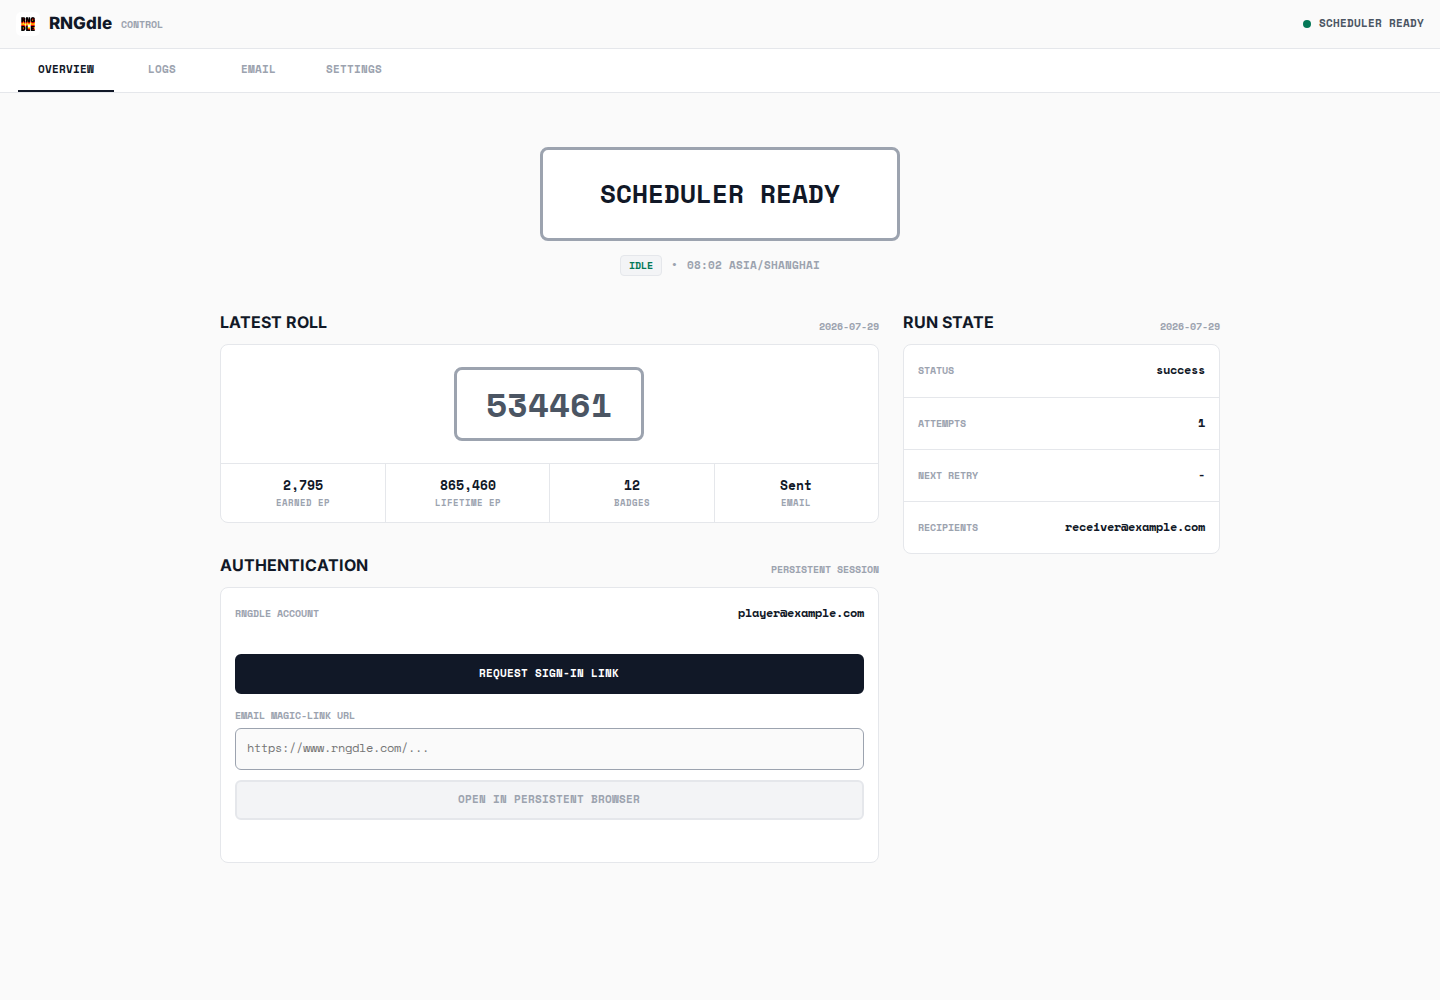
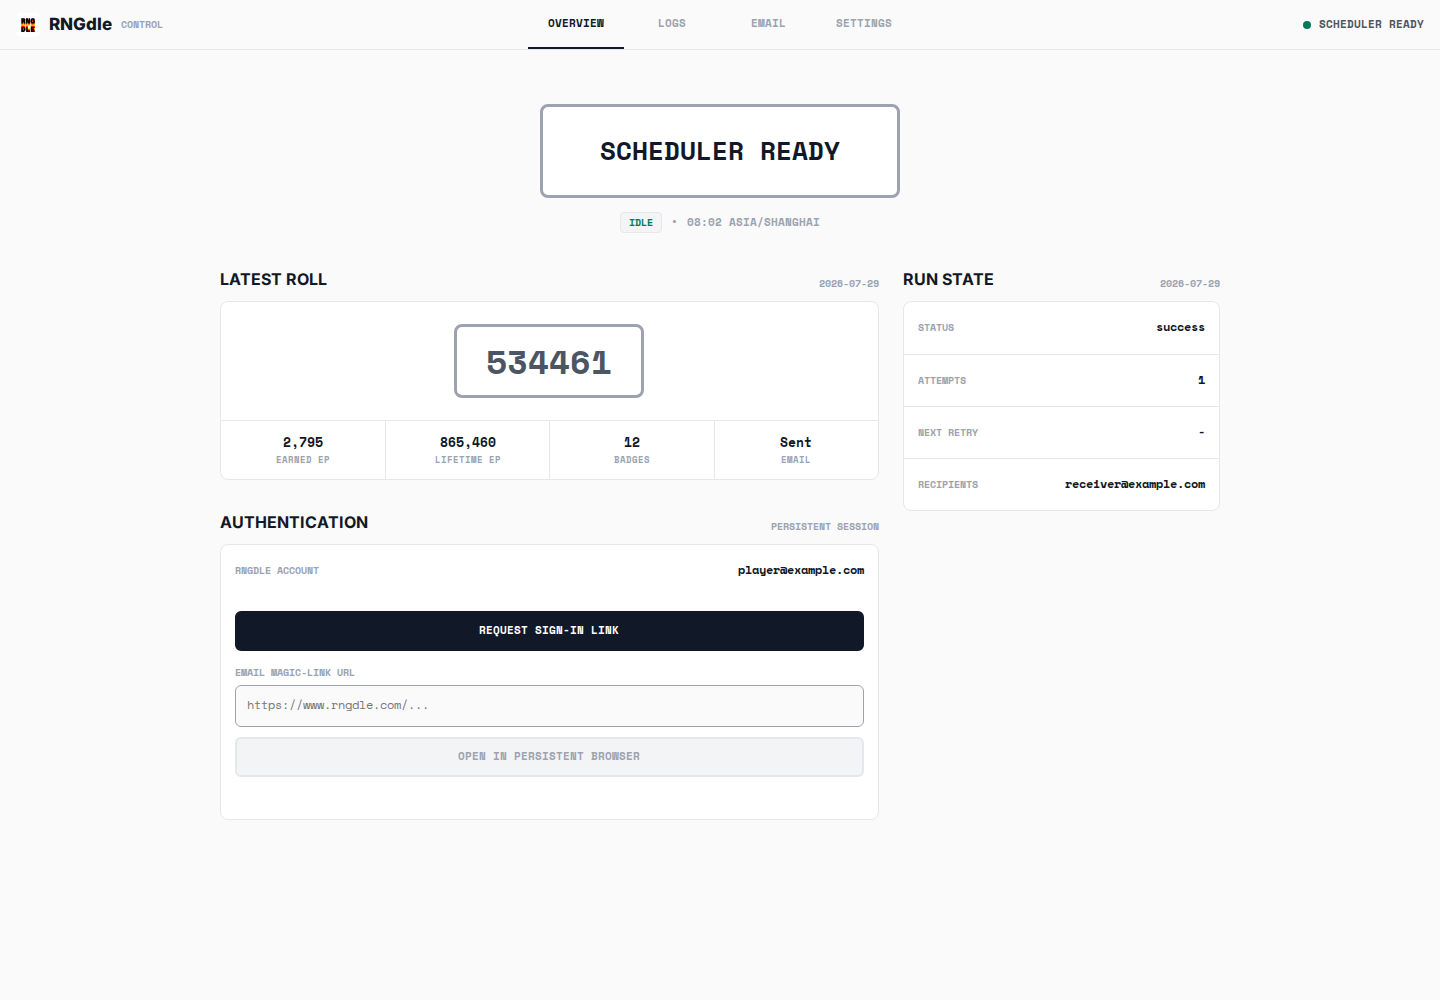
Move control navigation into header

diff --git a/src/control-page.js b/src/control-page.js
@@ -30,18 +30,17 @@ export function renderControlPage(baseUrl) {
     html,body { min-height:100%; }
     body { margin:0; background:var(--site); color:var(--prose); font:14px/1.5 var(--font-sans); letter-spacing:0; }
     button,input,select { font:inherit; }
-    .topbar { min-height:49px; display:flex; align-items:center; justify-content:space-between; gap:16px; padding:7px 16px; border-bottom:1px solid var(--outline); background:var(--site); }
-    .brand { display:inline-flex; align-items:center; gap:9px; color:var(--prose); font-size:17px; font-weight:800; text-decoration:none; }
+    .topbar { min-height:50px; display:grid; grid-template-columns:minmax(0,1fr) auto minmax(0,1fr); align-items:stretch; gap:12px; padding:0 16px; border-bottom:1px solid var(--outline); background:var(--site); }
+    .brand { grid-column:1; display:inline-flex; align-items:center; justify-self:start; gap:9px; color:var(--prose); font-size:17px; font-weight:800; text-decoration:none; }
     .brand img { width:24px; height:24px; border-radius:5px; }
     .brand-context,.mono,.label { font-family:var(--font-mono); }
     .brand-context { color:var(--prose-3); font-size:10px; text-transform:uppercase; }
-    .header-state { display:flex; align-items:center; gap:8px; min-width:0; color:var(--prose-2); font:700 11px/1.2 var(--font-mono); text-transform:uppercase; }
+    .header-state { grid-column:3; display:flex; align-items:center; justify-self:end; gap:8px; min-width:0; color:var(--prose-2); font:700 11px/1.2 var(--font-mono); text-align:right; text-transform:uppercase; }
     .dot { flex:0 0 auto; width:8px; height:8px; border-radius:50%; background:var(--prose-3); }
     .dot.waiting,.dot.error { background:var(--danger); }
     .dot.authenticated,.dot.idle,.dot.success { background:var(--success); }
-    .tabs-wrap { border-bottom:1px solid var(--outline); background:var(--surface); overflow-x:auto; }
-    .tabs { display:flex; width:max-content; min-width:100%; max-width:1080px; margin:0 auto; padding:0 18px; }
-    .tab { min-width:96px; min-height:43px; padding:10px 14px; border:0; border-bottom:2px solid transparent; background:transparent; color:var(--prose-3); font:700 11px/1.2 var(--font-mono); text-transform:uppercase; cursor:pointer; }
+    .tabs { grid-column:2; display:flex; align-self:stretch; justify-content:center; min-width:0; }
+    .tab { min-width:96px; min-height:49px; padding:10px 14px; border:0; border-bottom:2px solid transparent; background:transparent; color:var(--prose-3); font:700 11px/1.2 var(--font-mono); text-transform:uppercase; cursor:pointer; }
     .tab:hover { color:var(--prose); background:var(--raised); }
     .tab.active { border-bottom-color:var(--prose); color:var(--prose); }
     main { width:100%; max-width:1040px; margin:0 auto; padding:36px 20px 56px; }
@@ -115,21 +114,21 @@ export function renderControlPage(baseUrl) {
     .form-field .field-label { margin:0 0 6px; }
     .settings-actions { display:flex; align-items:center; justify-content:flex-end; gap:14px; padding-top:20px; }
     .secret-state { color:var(--success); }
-    @media (max-width:760px) { main { padding:28px 16px 44px; } .overview-grid { grid-template-columns:1fr; } .settings-group { grid-template-columns:1fr; gap:14px; } .log-row { grid-template-columns:1fr auto; gap:4px 10px; } .log-message,.log-fields { grid-column:1/-1; } .log-panel { height:460px; } .email-heading { align-items:stretch; flex-direction:column; } .email-actions { justify-content:flex-start; } .email-feedback { text-align:left; } .preview-frame { height:720px; } }
-    @media (max-width:520px) { .topbar { padding:7px 10px; } .brand-context { display:none; } .header-state { max-width:50%; text-align:right; } .tabs { padding:0 8px; } .tab { min-width:84px; padding:10px; } main { padding:24px 12px 36px; } .status-hero { padding-top:4px; } .status-frame { min-height:82px; } .status-copy { font-size:21px; } .stats { grid-template-columns:repeat(2,minmax(0,1fr)); } .stat:nth-child(3) { border-left:0; } .stat:nth-child(n+3) { border-top:1px solid var(--outline); } .form-grid { grid-template-columns:1fr; } .form-field.full { grid-column:auto; } .settings-actions { align-items:stretch; flex-direction:column; } .settings-actions .button { width:100%; } .toolbar { align-items:stretch; flex-direction:column; } .toolbar-group { justify-content:space-between; } .email-actions .segmented { width:100%; } .email-actions .segment { flex:1; } .email-actions .button { flex:1; } .preview-frame { height:660px; } }
+    @media (max-width:760px) { .topbar { grid-template-columns:minmax(0,1fr) auto; gap:0; padding:0; } .brand { grid-column:1; grid-row:1; min-height:49px; padding:7px 12px; } .header-state { grid-column:2; grid-row:1; min-height:49px; padding:7px 12px; } .tabs { grid-column:1/-1; grid-row:2; width:100%; border-top:1px solid var(--outline); overflow-x:auto; } .tab { flex:1 0 78px; min-width:78px; min-height:43px; padding:10px 8px; } main { padding:28px 16px 44px; } .overview-grid { grid-template-columns:1fr; } .settings-group { grid-template-columns:1fr; gap:14px; } .log-row { grid-template-columns:1fr auto; gap:4px 10px; } .log-message,.log-fields { grid-column:1/-1; } .log-panel { height:460px; } .email-heading { align-items:stretch; flex-direction:column; } .email-actions { justify-content:flex-start; } .email-feedback { text-align:left; } .preview-frame { height:720px; } }
+    @media (max-width:520px) { .brand-context { display:none; } .header-state { max-width:100%; } main { padding:24px 12px 36px; } .status-hero { padding-top:4px; } .status-frame { min-height:82px; } .status-copy { font-size:21px; } .stats { grid-template-columns:repeat(2,minmax(0,1fr)); } .stat:nth-child(3) { border-left:0; } .stat:nth-child(n+3) { border-top:1px solid var(--outline); } .form-grid { grid-template-columns:1fr; } .form-field.full { grid-column:auto; } .settings-actions { align-items:stretch; flex-direction:column; } .settings-actions .button { width:100%; } .toolbar { align-items:stretch; flex-direction:column; } .toolbar-group { justify-content:space-between; } .email-actions .segmented { width:100%; } .email-actions .segment { flex:1; } .email-actions .button { flex:1; } .preview-frame { height:660px; } }
   </style>
 </head>
 <body>
   <header class="topbar">
     <a id="brand-link" class="brand" href="${rngdleUrl}" target="_blank" rel="noopener noreferrer"><img src="${iconUrl}" alt=""><span>RNGdle</span><span class="brand-context">Control</span></a>
+    <nav class="tabs" role="tablist" aria-label="Control views">
+      <button class="tab active" role="tab" aria-selected="true" data-view="overview">Overview</button>
+      <button class="tab" role="tab" aria-selected="false" data-view="logs">Logs</button>
+      <button class="tab" role="tab" aria-selected="false" data-view="email">Email</button>
+      <button class="tab" role="tab" aria-selected="false" data-view="settings">Settings</button>
+    </nav>
     <div class="header-state"><span id="header-dot" class="dot"></span><span id="header-status">Connecting</span></div>
   </header>
-  <div class="tabs-wrap"><nav class="tabs" role="tablist" aria-label="Control views">
-    <button class="tab active" role="tab" aria-selected="true" data-view="overview">Overview</button>
-    <button class="tab" role="tab" aria-selected="false" data-view="logs">Logs</button>
-    <button class="tab" role="tab" aria-selected="false" data-view="email">Email</button>
-    <button class="tab" role="tab" aria-selected="false" data-view="settings">Settings</button>
-  </nav></div>
   <main>
     <section id="view-overview" class="view" role="tabpanel">
       <div class="status-hero">

diff --git a/test/control.test.js b/test/control.test.js
@@ -70,6 +70,8 @@ test("control APIs expose operations without exposing secrets", async (context) 
   assert.match(page, /@font-face/);
   assert.match(page, /\/assets\/fonts\/inter-latin\.woff2/);
   assert.match(page, /id="email-send"/);
+  assert.match(page, /<header class="topbar">[\s\S]*<nav class="tabs"[\s\S]*<\/header>/);
+  assert.doesNotMatch(page, /tabs-wrap/);
   const font = await fetch(`${baseUrl}/assets/fonts/space-mono-700-latin.woff2`);
   assert.equal(font.status, 200);
   assert.equal(font.headers.get("content-type"), "font/woff2");

diff --git a/README.md b/README.md
@@ -160,7 +160,9 @@ Control 的 Settings 页面会将修改写入 `/app/data/settings.json`，其优
 
 ## Control 页面
 
-Control 使用四个独立视图：
+Control 将品牌、四视图导航和 scheduler 状态集中在页面 header 中。移动端导航保留在 header 第二行，四个入口等宽排列。
+
+四个视图分别提供：
 
 | 视图 | 功能 |
 | --- | --- |
